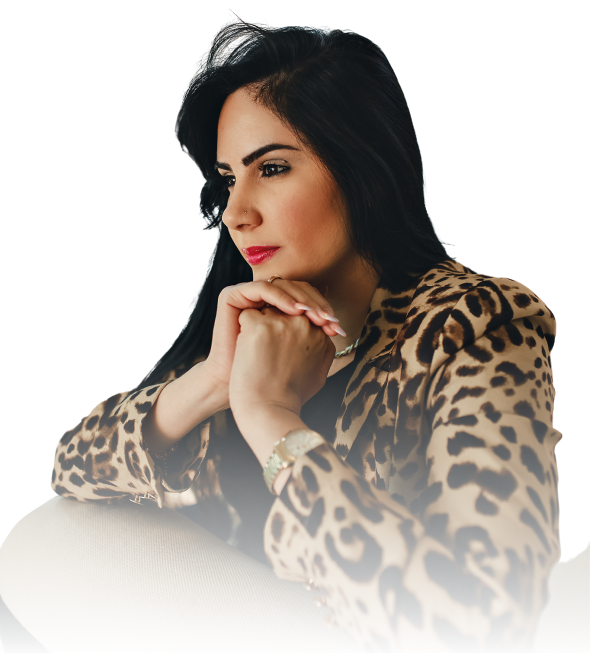
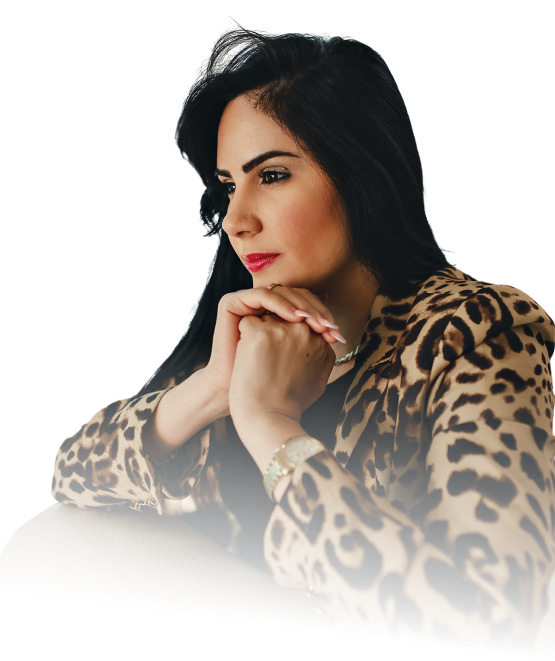
hero left

diff --git a/descubra-voce-chris/src/components/ForWho.jsx b/descubra-voce-chris/src/components/ForWho.jsx
@@ -7,7 +7,7 @@ const FeatureCard = ({icon, title, content, index}) => (
       <div className={`w-[64px] h-[64px] rounded-full ${styles.flexCenter} dimPurple`}>
         <img src={icon} alt='icon' className='w-[40%] h-[40%] object-contain'/>
       </div>
-      <div className='flex-1 flex flex-col ml-3'>
+      <div className='flex-1 flex flex-col ml-2'>
         <h4 className='font-semibold text-white text-[18px] leading-[24px] mb-2 max-w-[400px]'>
           {title}
         </h4>
@@ -25,14 +25,14 @@ const ForWho = () => {
   const { title, text } = text_section2;
 
   return (
-    <section id="features" className={`${styles.paddingY} flex-1 flex-row justify-center items-center sm:mt-20 sm:mb-20 lg:items-start`}>
-      <div className="flex flex-col md:flex-row justify-items-start">
-        <div className={`flex-1`}>
+    <section id="features" className={` flex-1 flex-row  items-start sm:mt-20 sm:mb-20`}>
+      <div className="flex flex-col  md:flex-row md:justify-items-start">
+        <div className={`flex-col flex-1`}>
           <h2 className={`${styles.heading2} flex-1`}>{title}</h2>
-          <p className={`${styles.paragraph} flex-1 mt-5 max-w-[530px]`}>{text}</p> 
+          <p className={`${styles.paragraph} flex flex-1 mt-5 max-w-[530px]`}>{text}</p> 
         </div>
       
-      <div className={`${layout.sectionImg} flex-col`}>
+      <div className={`flex mt-20 md:mt-0 flex-col max-w-[530px]`}>
         {features.map((feature, index) => (
           <FeatureCard key={feature.id} {...feature} index={index} /> //"..." spread all the features inside the object
         ))}

diff --git a/descubra-voce-chris/src/components/Ending.jsx b/descubra-voce-chris/src/components/Ending.jsx
@@ -6,14 +6,13 @@ const Ending = () => {
   return (
     <section id="investment" className={`padding max-container m-55`}>
         <div className={`flex flex-col justify-center items-center md:gap-y-12 xs:mb-10`}>
-          <h1 className={`text-[32px] ss:text-[36px] text-white leading-[150%] font-lato font-bold text-center max-xs:w-[360px] md:w-[600px]`}>
+          <h1 className={`z-[1] text-[32px] ss:text-[36px] text-white leading-[150%] font-lato font-bold text-center max-xs:w-[360px] md:w-[600px]`}>
             Venha embarcar nessa jornada de autodescoberta e transformação!
           </h1>
 
           {/*efeito*/}
-          <div className="absolute z-[0] w-[10%] h-[10%] justify-center bg-ending" />
 
-          <CTA styles="mt-8" label="Inscreva-se já!" />
+          <CTA styles="mt-8" label="Inscreva-se já!" className="z-[1]" />
         </div>
       
     </section>

diff --git a/descubra-voce-chris/src/components/Chris.jsx b/descubra-voce-chris/src/components/Chris.jsx
@@ -7,7 +7,7 @@ const Chris = () => {
   const { title, text } = text_chris;
 
   return (
-    <section id="text_chris" className={`flex md:flex-row flex-col items-center ${styles.paddingY}` }>
+    <section id="text_chris" className={`flex md:flex-row flex-col ${styles.paddingY} md:items-center` }>
       {/*Left side*/}
       <div className={`flex flex-1 flex-col`}>
         <h2 className={`${styles.heading2} mt-8 text-start text-white`}>{title}</h2>
@@ -23,7 +23,7 @@ const Chris = () => {
           alt="chrisWho"
           className="w-[100%] h-[100%] relative z-[5] -right-[30%] "
         />
-        <div className="absolute z-[0] w-[100%] h-[100%] top-0 who-photo-gradient" />
+        <div className="absolute z-[0] w-[100%] h-[100%] top-0 -right-[20%] who-photo-gradient" />
       </div>
     </section>
   );

diff --git a/descubra-voce-chris/src/components/Learning.jsx b/descubra-voce-chris/src/components/Learning.jsx
@@ -9,13 +9,13 @@ const Learning = () => {
   const { title, emphasis, text } = text_section3;
 
   return (
-    <section id="learning" className={`flex flex-col sm:mt-20 sm:mb-20`}>
+    <section id="learning" className={`flex flex-col xs:mt-20 xs:mb-20`}>
       
       {/*right gradient*/}
       {/* <div className="absolute z-[0] w-[60%] h-[60%] -right-[50%] rounded-full purple__gradient"/> */}
 
       {/*Text*/}
-      <div className={`flex-1 flex-col justify-center items-start sm:items-center sm:justify-center  ` }>
+      <div className={`flex-1 flex-col justify-center items-start sm:items-center sm:justify-center ` }>
         <h2 className={`${styles.heading2} mt-10`}>{title}</h2>
         <p className={`${styles.paragraph} max-w-[470px] mt-5`}>{text}</p> 
       </div>

diff --git a/descubra-voce-chris/src/style.js b/descubra-voce-chris/src/style.js
@@ -1,7 +1,7 @@
 const styles = {
     boxWidth: "xl:max-w-[1280px] w-full",
   
-    heading2: "font-lato font-semibold text-[36px] text-white w-[500px]",
+    heading2: "font-lato font-semibold text-[36px] text-white w-[480px]",
     heading3: "font-lato font-light xs:text-[20px] text-[24px] text-white xs:leading-[150%] leading-[150%] w-full",
     paragraph: "font-lato font-normal text-dimWhite text-[16px] leading-[28.8px]",
     paragraph_small: "font-lato font-normal text-dimWhite uppercase text-[12px] leading-[24.8px]",

diff --git a/descubra-voce-chris/src/components/Benefits.jsx b/descubra-voce-chris/src/components/Benefits.jsx
@@ -9,7 +9,7 @@ const Benefits = () => {
   return (
 
   <section id="benefits" className="flex flex-col relative mt-20 mb-20">
-   <div className='flex flex-col justify-center items-center'>
+   <div className='flex flex-col justify-center items-center mt-20'>
       <div className="flex justify-center items-center">
             <h1 className={`${styles.heading2} text-center`}>Desfrute de três benefícios <br/>em um único curso</h1>
       </div>

diff --git a/descubra-voce-chris/src/components/Investment.jsx b/descubra-voce-chris/src/components/Investment.jsx
@@ -5,7 +5,7 @@ import CTA from "./CTA";
 /* title: Acesso ao Descubra Você*/
 const Investment = () => {
   return (
-    <section id="investment" className={`flex flex-col sm:mt-20 sm:mb-20`}>
+    <section id="investment" className={`flex flex-col xs:mt-20 xs:mb-20`}>
       <div className={`flex justify-center items-center `}>
         <h1 className={`${styles.heading2} text-center w-[300px] sm:w-full`}>
           Acesso ao Descubra Você

diff --git a/descubra-voce-chris/src/assets/index.js b/descubra-voce-chris/src/assets/index.js
@@ -12,6 +12,7 @@ import icon_check from "./icon_check.svg";
 import icon_instagram from "./icon_instagram.svg";
 import icon_whatsapp from "./icon_whatsapp.svg";
 import icon_youtube from "./icon_youtube.svg";
+import blur1 from "./blur1.png";
 
 
 
@@ -32,4 +33,5 @@ export {
   icon_instagram,
   icon_whatsapp,
   icon_youtube,
+  blur1
 };
